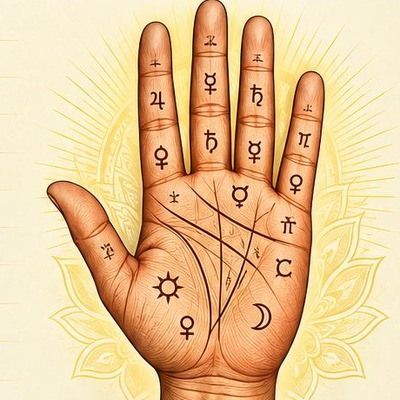
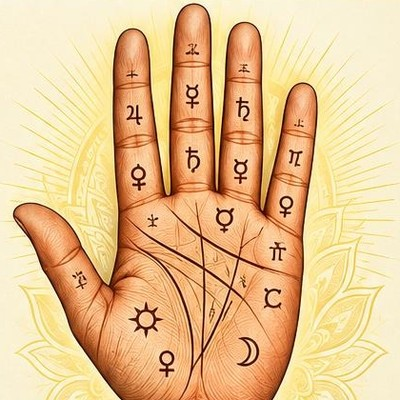
Pandit Lakshman: green flyer on business page + classified, palm photo from it

diff --git a/scripts/add-master-lakshman.ts b/scripts/add-master-lakshman.ts
@@ -29,7 +29,9 @@ const LISTING_SLUG = "free-first-consultation-master-lakshman-ji-jersey-city-nj"
 /** His visiting card, which replaced the first "Sri Guru Astrologer Center" poster. */
 const POSTER = `${SITE}/images/business/pandit-lakshman-card.jpg`;
 const OLD_POSTER = `${SITE}/images/business/pandit-lakshman-poster.jpg`;
-/** Wide 16:10 flier built around the card, so the classified's photo box isn't cropped. */
+/** Green "Sri Guru Astrologer Center" flyer he prefers (hours corrected to 9 am – 8 pm); replaces the card. */
+const GREEN = `${SITE}/images/business/pandit-lakshman-green.jpg`;
+/** Wide 16:10 flier built around the green flyer, so the classified's photo box isn't cropped. */
 const FLIER = `${SITE}/images/business/pandit-lakshman-flier.jpg`;
 const AVATAR = `${SITE}/images/business/pandit-lakshman-palm.jpg`;
 /** He was "Master Lakshman Ji" until he asked to be called Panditji (Nov 2026). */
@@ -216,8 +218,8 @@ async function main() {
     create: { ...businessData, slug: SLUG, ownerId: user.id },
   });
 
-  await db.media.deleteMany({ where: { businessId: business.id, url: OLD_POSTER } });
-  for (const [url, sortOrder] of [[FLIER, -2], [POSTER, -1]] as const) {
+  await db.media.deleteMany({ where: { businessId: business.id, url: { in: [OLD_POSTER, POSTER] } } });
+  for (const [url, sortOrder] of [[FLIER, -2], [GREEN, -1]] as const) {
     if (await db.media.count({ where: { businessId: business.id, url } })) continue;
     await db.media.create({
       data: { businessId: business.id, url, type: "IMAGE", caption: "Pandit Lakshman Ji — Astrologer & Psychic Spiritual Healer", sortOrder },
@@ -284,7 +286,7 @@ async function main() {
     where: { listingId: listing.id, url: { contains: "-lakshman-" } },
   });
   await db.listingImage.createMany({
-    data: [FLIER, POSTER].map((url, sortOrder) => ({
+    data: [FLIER, GREEN].map((url, sortOrder) => ({
       listingId: listing.id,
       url,
       sortOrder,
